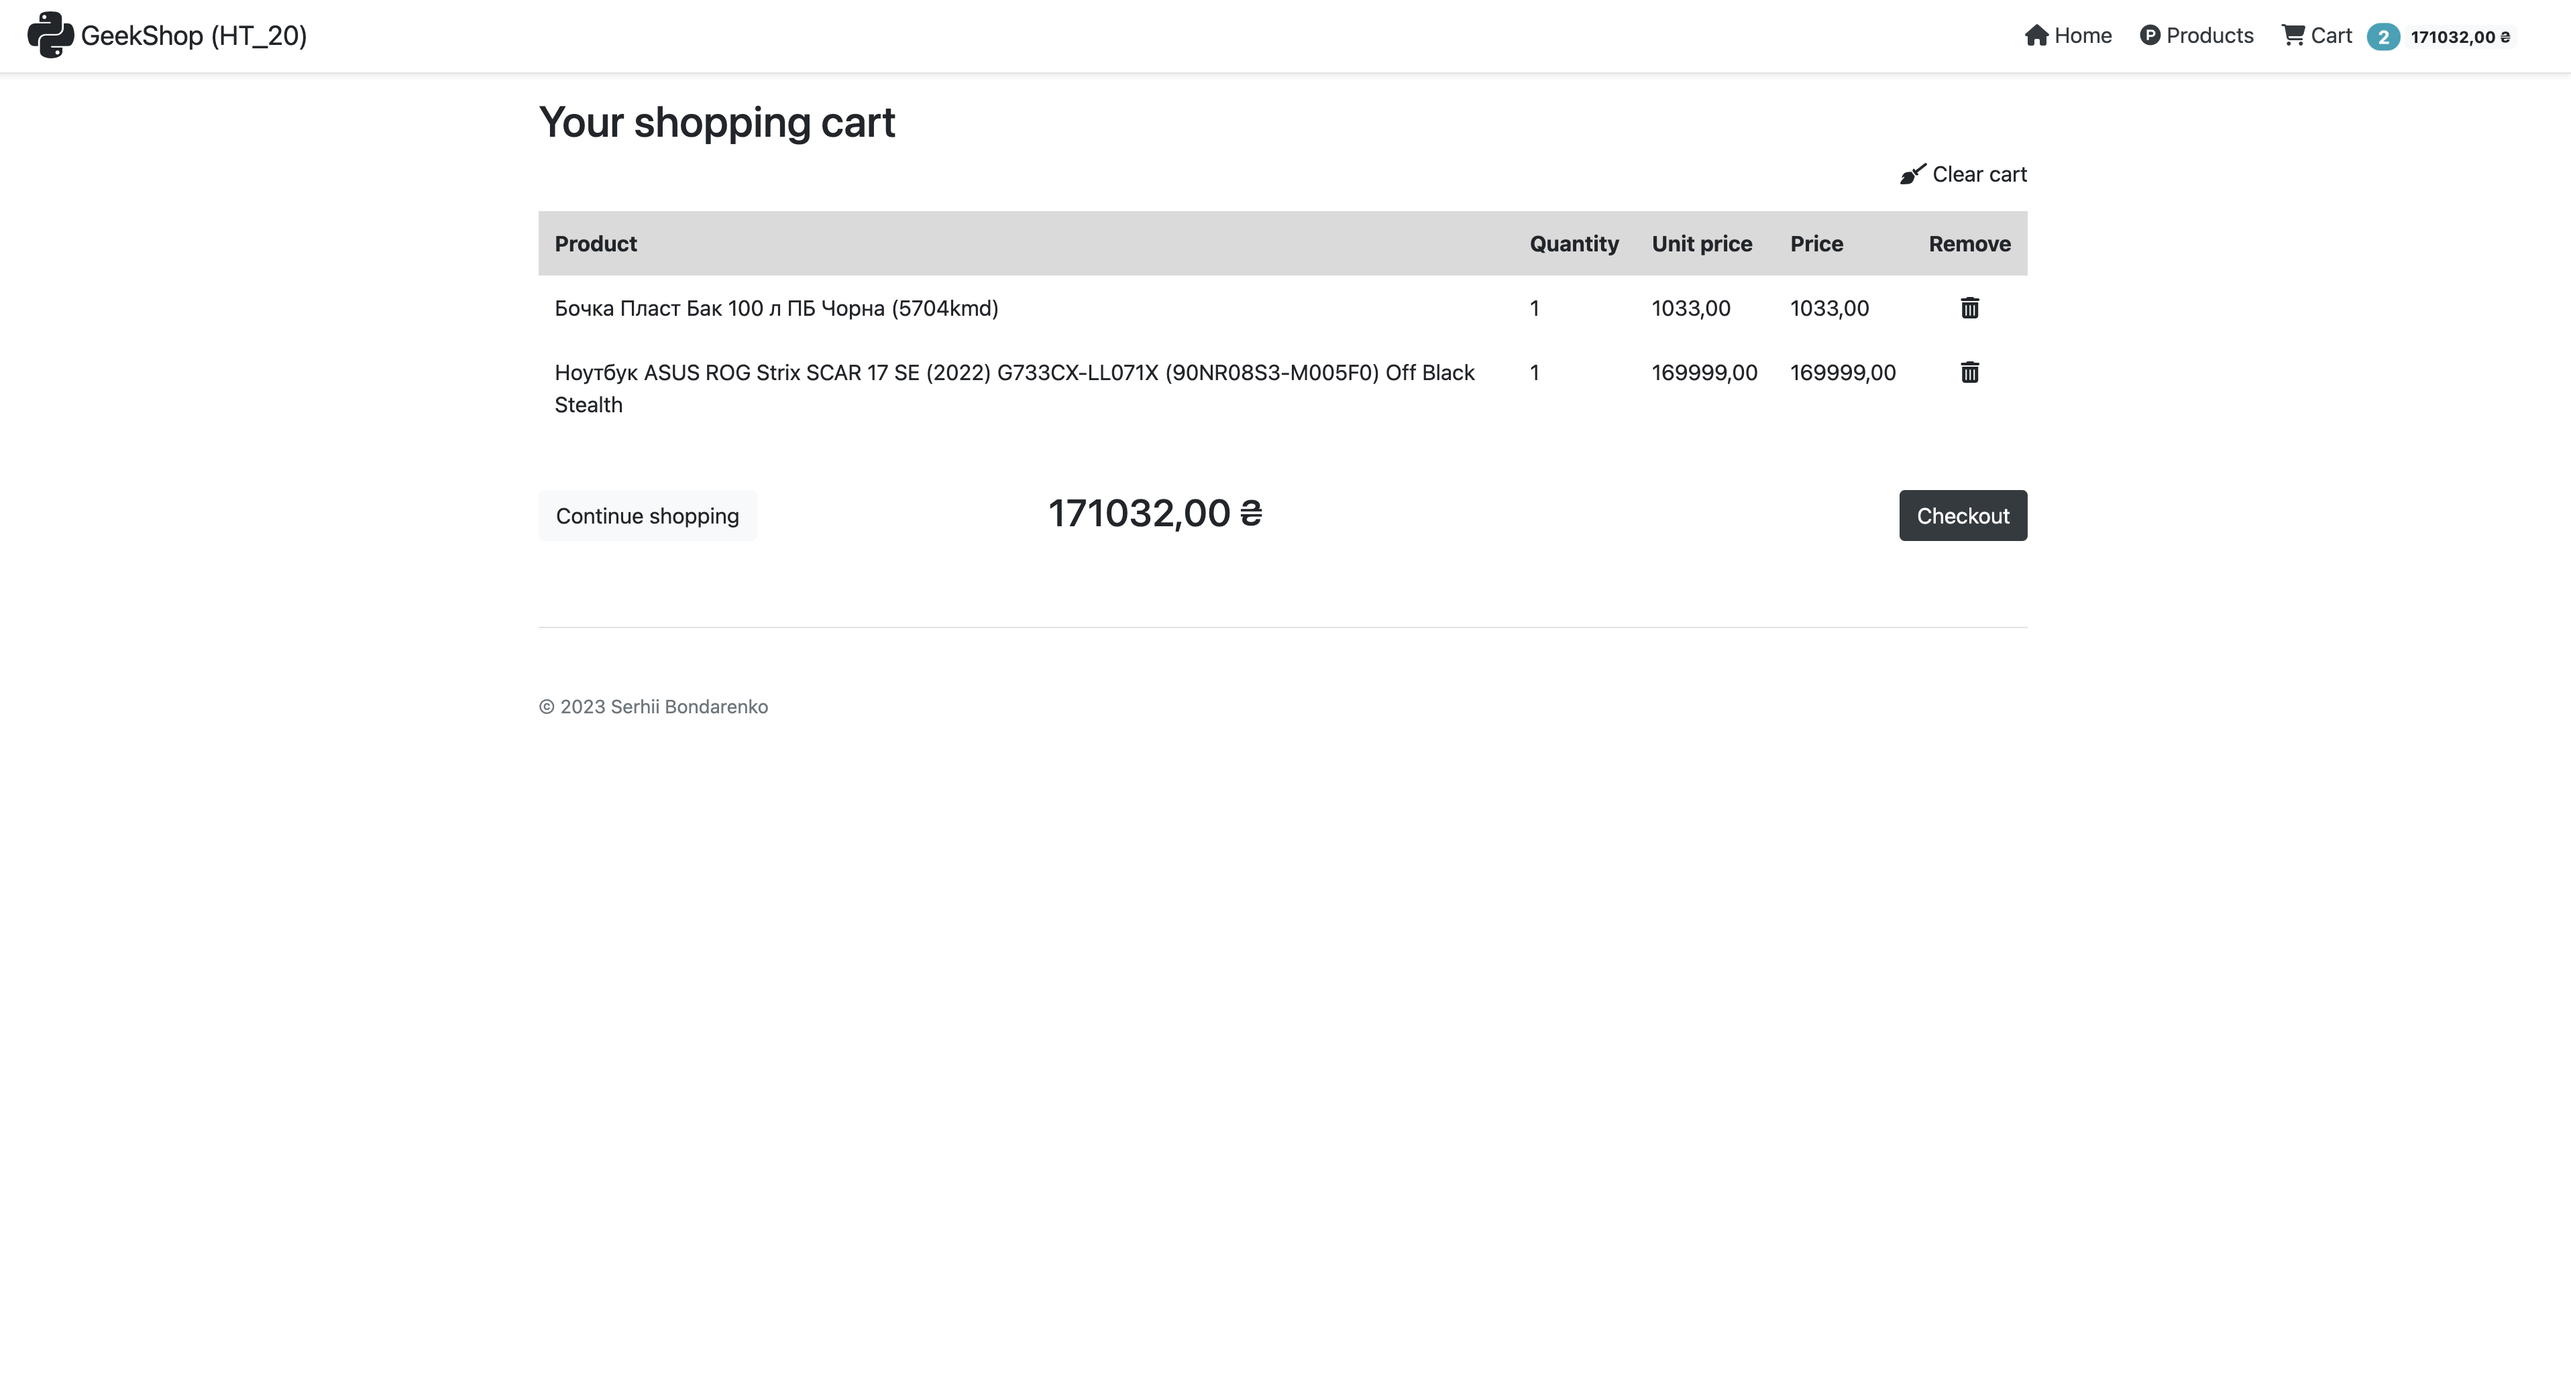
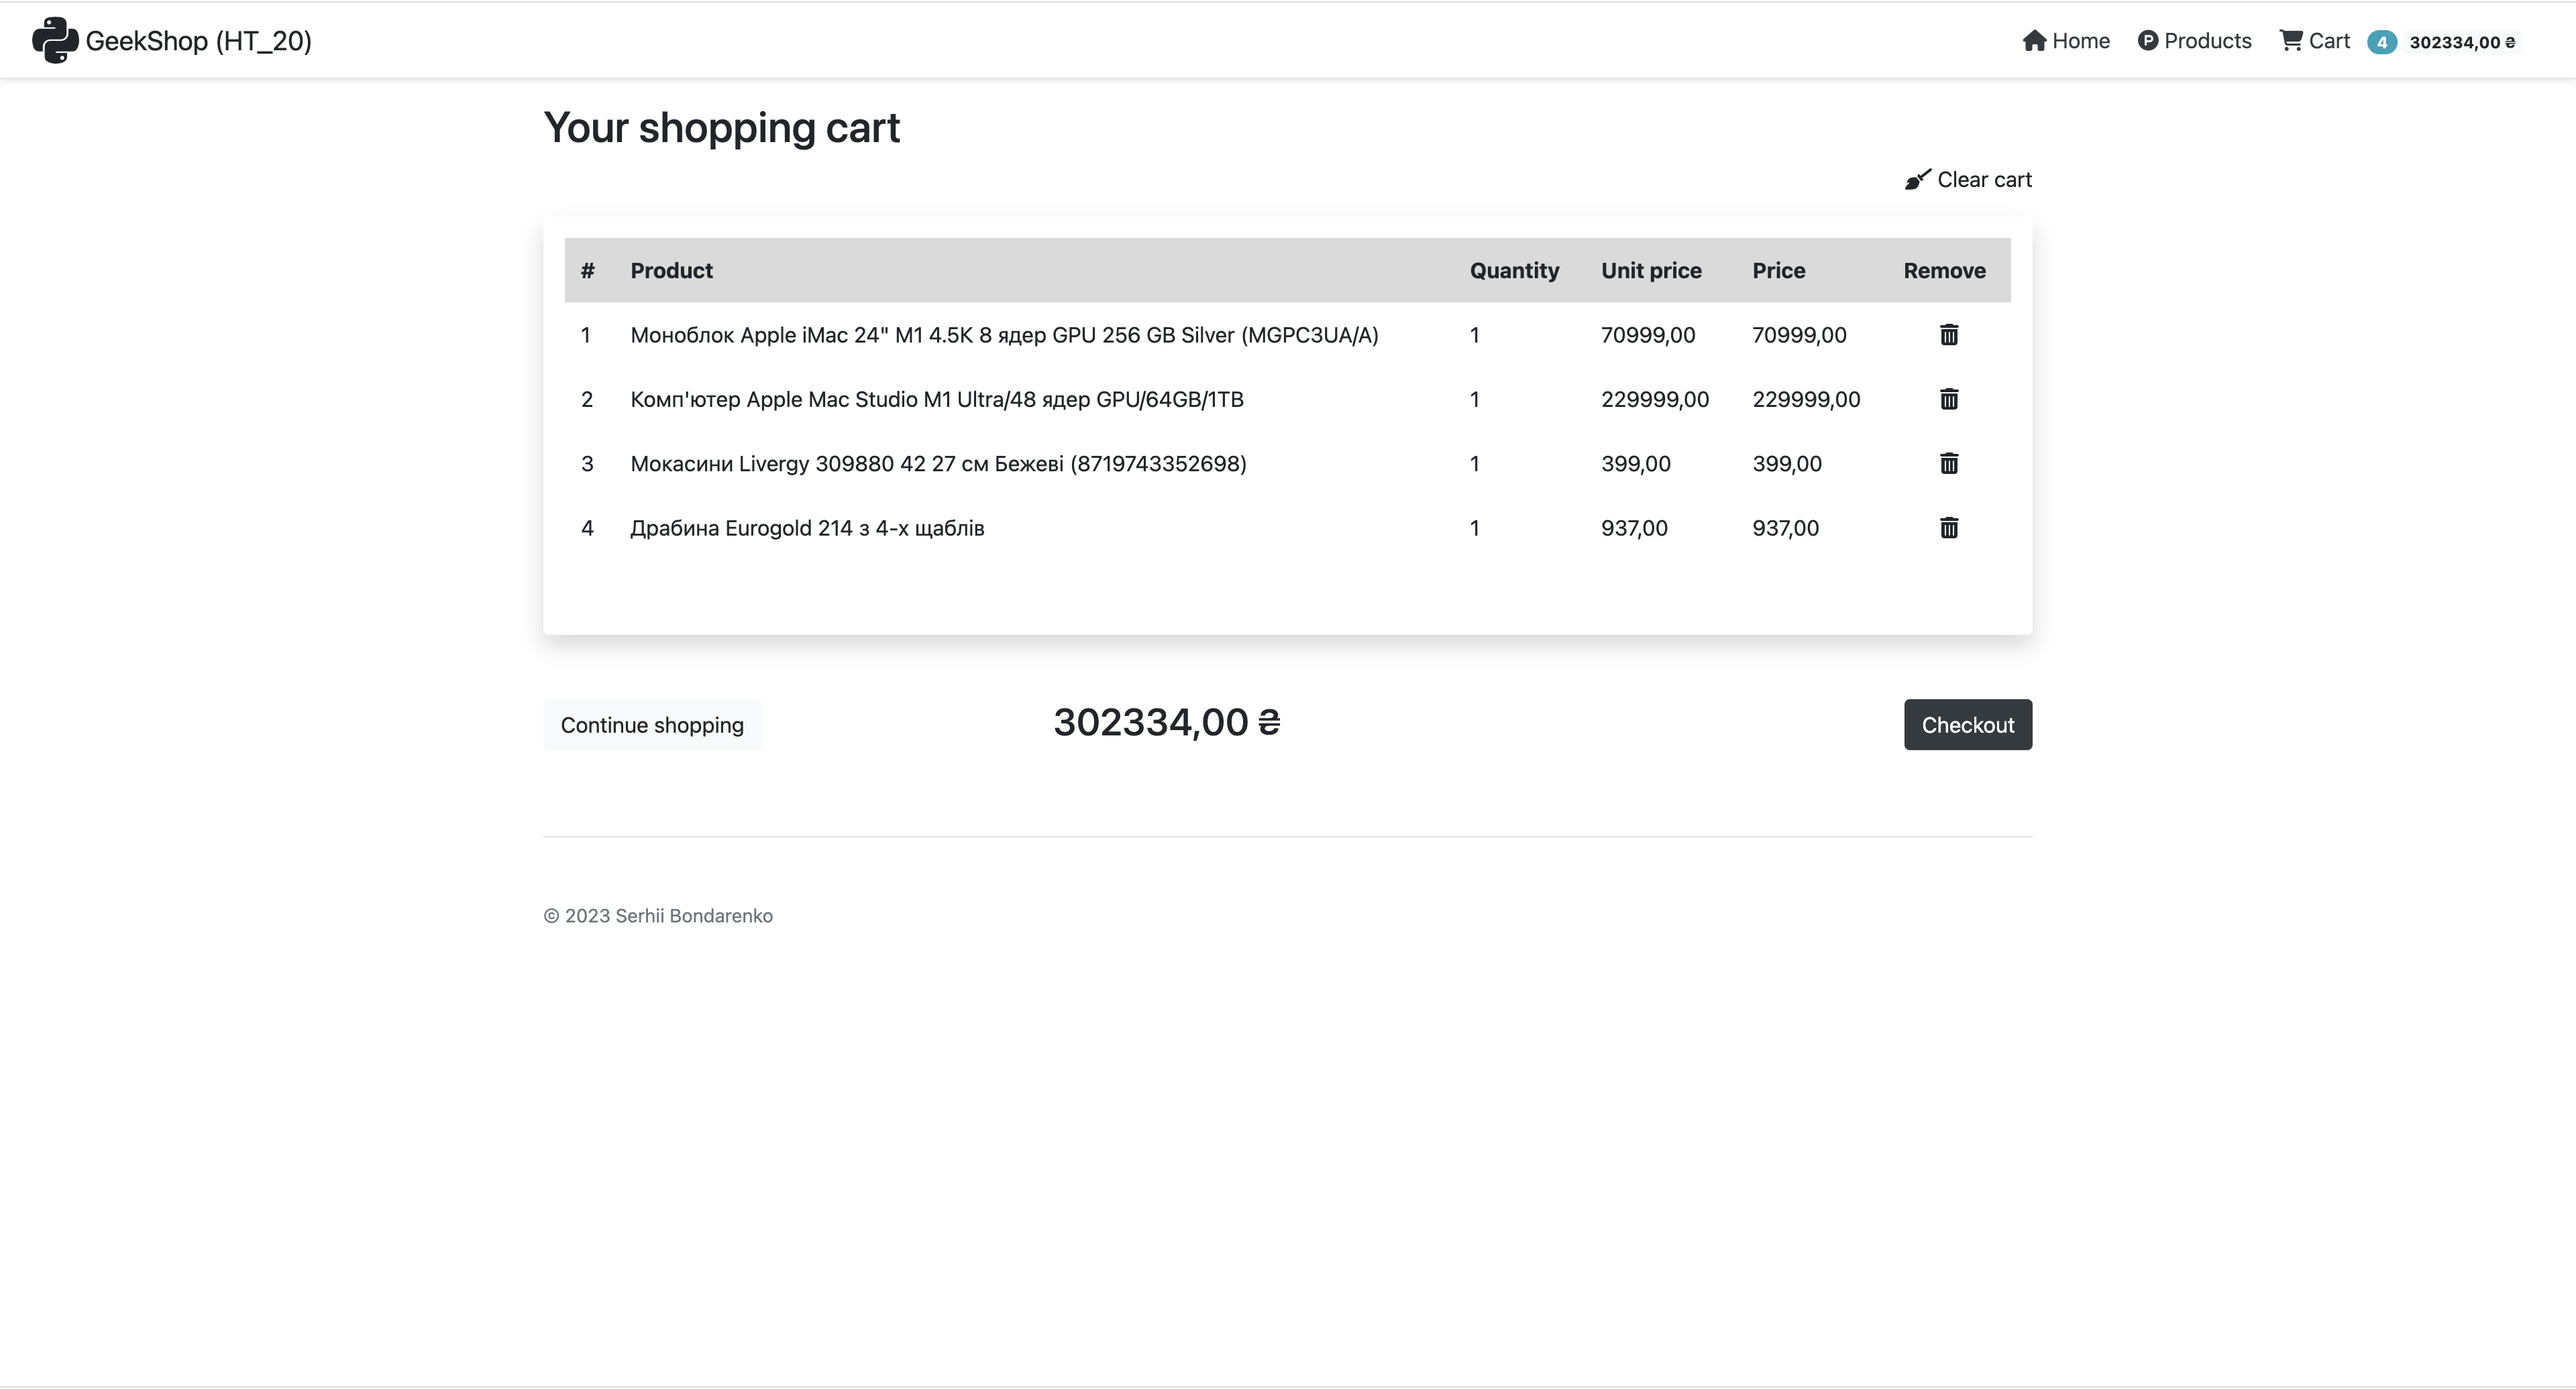
update pages

diff --git a/HT_20/templates/rozetka/product_list.html b/HT_20/templates/rozetka/product_list.html
@@ -6,47 +6,41 @@
 {% endblock %}
 
 {% block content %}
-  <h2>Products List</h2>
-  <div class="table-responsive">
-    <table class="table table-bordered table-hover">
-      <caption></caption>
-      <thead>
-      <tr class="table-active">
-        <th>#</th>
-        <th>Title</th>
-        <th>Price</th>
-        <th>Detail</th>
-      </tr>
-      </thead>
-      <tbody>
-      {% if product_list %}
-        {% for product in product_list %}
-          <tr>
-            <td>{{ forloop.counter }}</td>
-            <td>{{ product.title|slice:"100" }}</td>
-            <td>
-              {% if product.price > 0 %}
-                {{ product.price }}</td>
-              {% else %}
-                Out of stock
-              {% endif %}
-            <td>
-              <a href="{% url 'rozetka:product-detail' product.id %}" class="btn btn-outline-secondary
+  <h2 class="mb-5">Products List</h2>
+  {# Products list #}
+  {% if product_list %}
+    <div class="row row-cols-1 row-cols-md-4 justify-content-center">
+      {% for product in product_list %}
+        <div class="col mb-4 mr-4">
+          <div class="shadow p-6 mb-4 bg-white rounded">
+            <div class="card text-center" style="width: 18rem;">
+              <img src="{% static 'rozetka/img/no_image.png' %}" class="card-img-top"
+                   alt="product">
+              <div class="card-body">
+                <h6 class="card-title font-weight-lighter">{{ product.title|slice:"100" }}</h6>
+              </div>
+              <ul class="list-group list-group-flush">
+                <li class="list-group-item">
+                  {% if product.price > 0 %}
+                    <span class="font-weight-bolder">{{ product.price }}</span> ₴
+                  {% else %}
+                    Out of stock
+                  {% endif %}
+                </li>
+              </ul>
+              <div class="card-body">
+                <a href="{% url 'rozetka:product-detail' product.id %}" class="btn btn-outline-secondary
               btn-sm">
-                <i class="fa-regular fa-eye"></i> View
-              </a>
-            </td>
-          </tr>
-        {% endfor %}
-      {% else %}
-        <tr>
-          <td>-</td>
-          <td>There are no products in DB</td>
-          <td>-</td>
-          <td>-</td>
-        </tr>
-      {% endif %}
-      </tbody>
-    </table>
-  </div>
+                  <i class="fa-regular fa-eye"></i> Detail
+                </a>
+              </div>
+            </div>
+          </div>
+        </div>
+      {% endfor %}
+    </div>
+  {% else %}
+    <h6>There are no products in DB</h6>
+  {% endif %}
+  {# End product list #}
 {% endblock %}

diff --git a/HT_20/templates/rozetka/product_detail.html b/HT_20/templates/rozetka/product_detail.html
@@ -6,9 +6,8 @@
 {% endblock %}
 
 {% block content %}
-  <h2 xmlns="http://www.w3.org/1999/html"
-      xmlns="http://www.w3.org/1999/html">{{ product.title }}</h2>
-  <ul class="list-group list-group-flush">
+  <h2 >{{ product.title }}</h2>
+  <ul class="list-group list-group-flush shadow p-3 mb-5 bg-white rounded">
     <li class="list-group-item">{{ product.brand }}</li>
     <li class="list-group-item">{{ product.description|safe }}</li>
     <li class="list-group-item">
@@ -24,12 +23,13 @@
           {% csrf_token %}
           <div class="form-group mb-2">
             <h4>
-              <span class="text-muted" style="text-decoration:line-through;">
-                  {{ product.old_price }} ₴
-                </span><br>
+              {% if product.old_price > 0 %}
+                <span class="text-muted" style="text-decoration:line-through;">
+                    {{ product.old_price }} ₴
+              </span><br>
+              {% endif %}
               <span class="mb2">
                 {{ product.price }} ₴
-
               </span>
             </h4>
           </div>

diff --git a/HT_20/templates/cart/cart_detail.html b/HT_20/templates/cart/cart_detail.html
@@ -12,11 +12,12 @@
       <i class="fa-solid fa-broom"></i> Clear cart
     </a>
   </p>
-  <div class="table-responsive">
+  <div class="table-responsive shadow p-3 mb-5 bg-white rounded">
     <table class="table table-borderless table-hover">
       <caption></caption>
       <thead>
       <tr class="table-active">
+        <th>#</th>
         <th>Product</th>
         <th>Quantity</th>
         <th>Unit price</th>
@@ -28,6 +29,7 @@
       {% for item in cart %}
         {% with product=item.product %}
           <tr>
+          <td>{{ forloop.counter }}</td>
             <td>
               <a class="text-reset text-decoration-none" href=
                   "{% url 'rozetka:product-detail' product.id %}">

diff --git a/HT_20/templates/rozetka/base.html b/HT_20/templates/rozetka/base.html
@@ -6,6 +6,9 @@
   <meta name="viewport" content="width=device-width, initial-scale=1, shrink-to-fit=no">
   <title>{% block title %}{% endblock %}</title>
 
+  <!-- Favicon -->
+  <link type="image/png" sizes="16x16" rel="icon" href="{% static 'rozetka/favicon.png' %}">
+
   <!-- Bootstrap core CSS -->
   <link rel="stylesheet" href="{% static 'rozetka/css/bootstrap.css' %}">
 

diff --git a/HT_20/rozetka/models.py b/HT_20/rozetka/models.py
@@ -19,7 +19,7 @@ class Product(models.Model):
     class Meta:  #pylint: disable=too-few-public-methods
         """Meta object for Product"""
 
-        ordering = ["title"]
+        ordering = ["-id"]
         verbose_name = "Product"
         verbose_name_plural = "Products"
 

diff --git a/HT_20/rozetka/views.py b/HT_20/rozetka/views.py
@@ -31,7 +31,7 @@ def add_id(request):
 class ProductsListView(generic.ListView):
     """Get product list"""
     model = Product
-    paginate_by = 10
+    paginate_by = 9
 
 
 class ProductsDetailView(generic.DetailView):

diff --git a/HT_20/README.md b/HT_20/README.md
@@ -7,5 +7,5 @@
    * очищення всієї корзини.
 
 ![products](docs/img/products.png)
-![product-detail](docs/img/product_detaail.png)
+![product-detail](docs/img/product_detail.png)
 ![cart](docs/img/cart.png)
